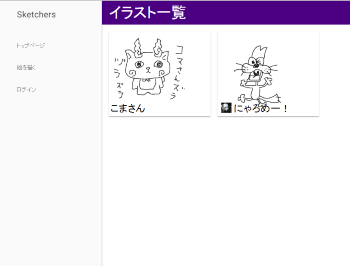
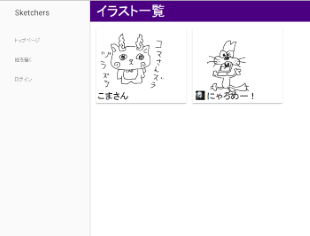
fix

diff --git a/portfolio/css/style.css b/portfolio/css/style.css
@@ -139,11 +139,11 @@ section a:hover {
   display: flex;
   flex-direction: column;
   justify-content: space-around;
+  width: 100%;
 }
 @media (min-width: 768px) {
   .outer {
     flex-direction: row;
-    width: 100%;
   }
 }
 
@@ -151,7 +151,7 @@ section a:hover {
 .inner {
   display: flex;
   flex-direction: column;
-  width: 320px;
+  width: 310px;
 }
 
 @keyframes high-light {
